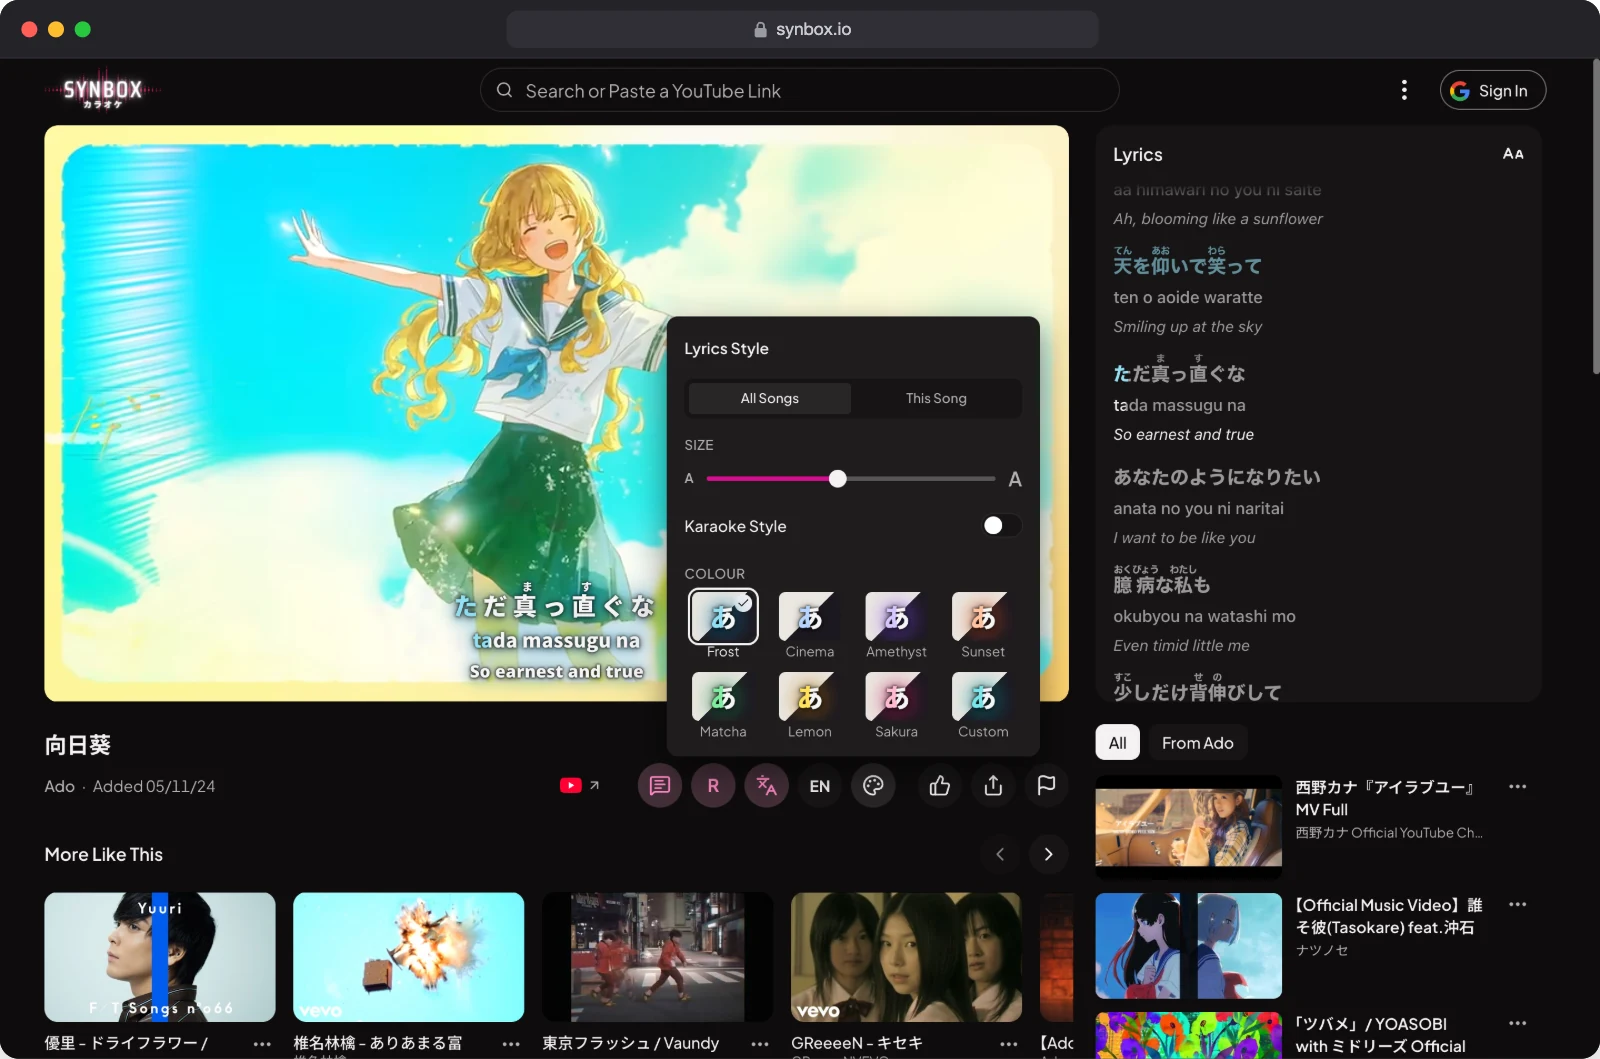
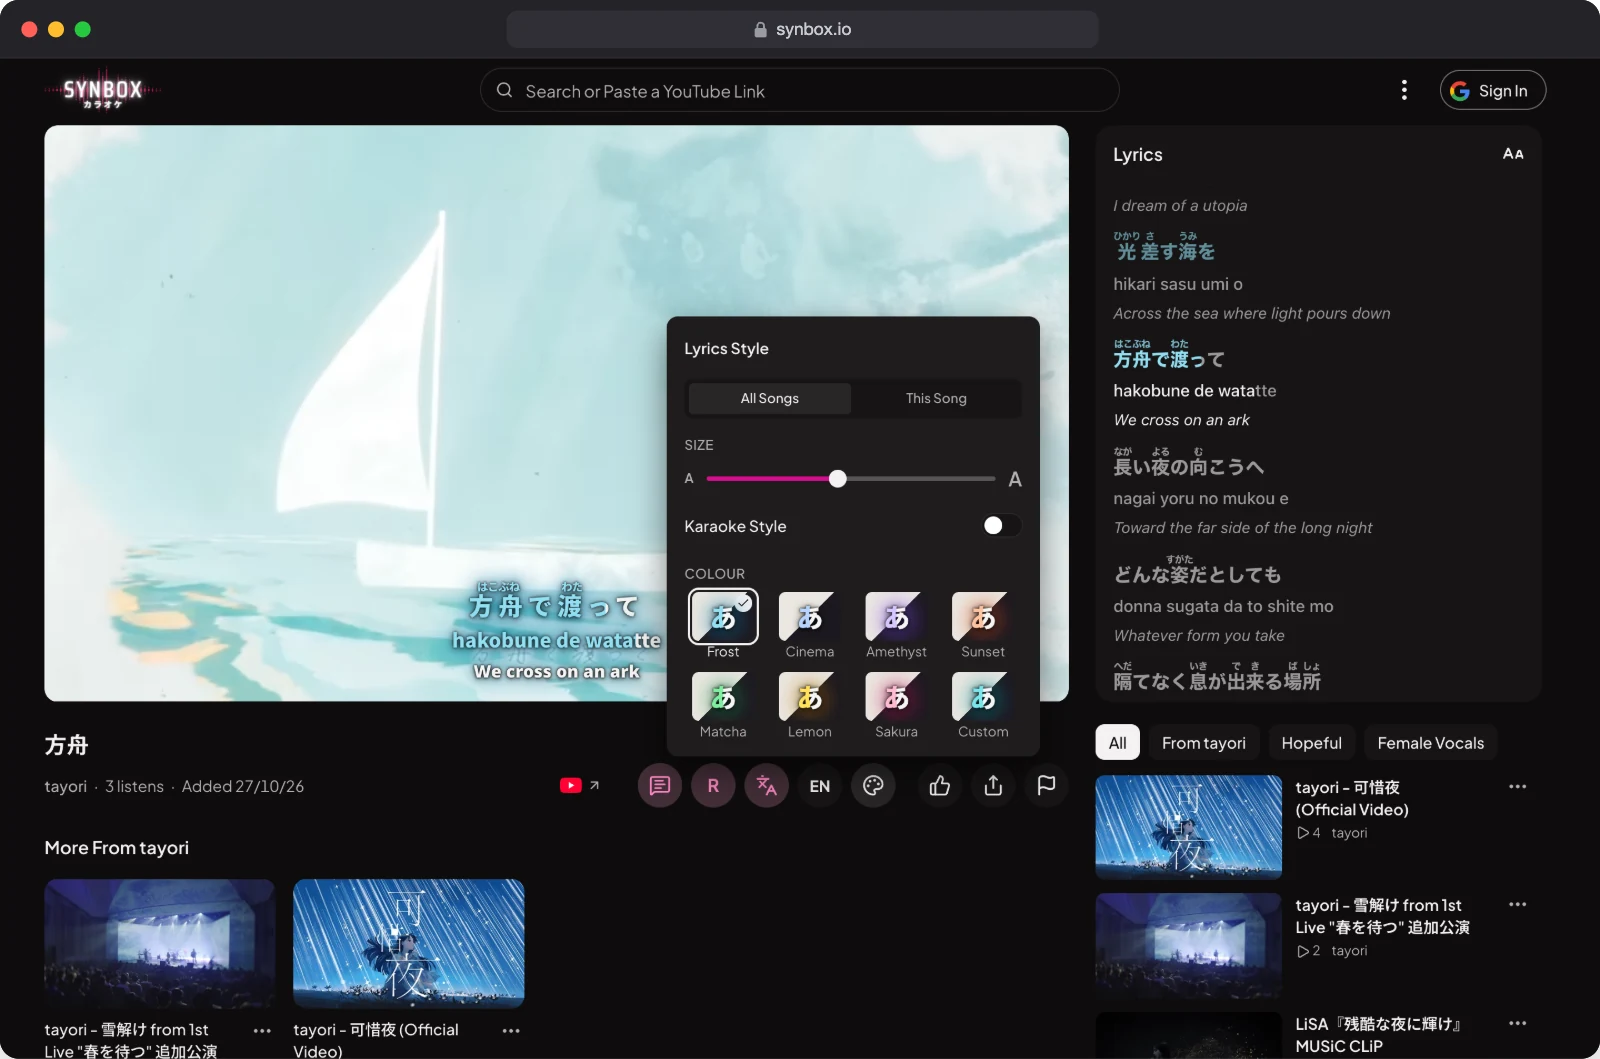
README images: the product over scenery, neutral songs in the lists
Every image now shows the song at a moment with no characters on screen.
capture.ts --neighbours limits the page's song lists to chosen songs.

diff --git a/harness/readme/capture.ts b/harness/readme/capture.ts
@@ -24,6 +24,9 @@
 //                                                                           website and the upright installed app
 //   --karaoke-style   lyrics in Karaoke Style (two rows) on every screen, as the listener's own default would set
 //   --lyrics-size <n> Karaoke Style's size (lyricsFontSizeTwoLines; 0.6 to 1.05 on a phone on its side)
+//   --neighbours <ids> the only songs (video ids, comma-separated) the page's song lists show: Up Next, More Like
+//                     This and the rows under the song, from the deployed lookup service's own answers. A showcase
+//                     picks neutral neighbours, as a demo account would
 //   --site <origin>   the app to shoot (default https://synbox.io). A local `wt serve` shows staging's code; its
 //                     karaoke, recommendations and YouTube reads are answered from the deployed services, which the
 //                     dev server's stand-ins can't reach without the backend's keys
@@ -80,6 +83,7 @@ const { positionals, values } = parseArgs({
     // Sideways: switch the video's fit (Zoom to Fill / Fit), for a video whose own captions the default crop cuts
     'karaoke-style': { default: false, type: 'boolean' },
     'lyrics-size': { type: 'string' },
+    neighbours: { type: 'string' },
     'other-fit': { default: false, type: 'boolean' },
     site: { default: 'https://synbox.io', type: 'string' },
     theater: { default: false, type: 'boolean' },
@@ -171,6 +175,50 @@ const fromDeployed = async (context: BrowserContext) => {
   )
 }
 
+// Every list of songs in a lookup answer (arrays of objects with a video_id), down to the kept songs
+const keepSongs = (value: unknown, kept: Set<string>): unknown => {
+  if (Array.isArray(value)) {
+    return value
+      .filter(
+        (item) =>
+          !isRecord(item) ||
+          typeof item.video_id !== 'string' ||
+          kept.has(item.video_id)
+      )
+      .map((item) => keepSongs(item, kept))
+  }
+  return isRecord(value)
+    ? Object.fromEntries(
+        Object.entries(value).map(([key, item]) => [key, keepSongs(item, kept)])
+      )
+    : value
+}
+
+// The page's library reads from the deployed lookup service, their song lists down to the kept songs
+const onlyNeighbours = async (context: BrowserContext, kept: Set<string>) => {
+  const { lookup } = backendOrigins(repoAt(process.cwd()).top)
+  await context.route(
+    // The lookup service's own reads, and the site's cached copy of its song list (/api/library/songs)
+    (url) =>
+      url.pathname.startsWith('/api/library/') ||
+      (url.origin !== new URL(site).origin && url.pathname.includes('/library/')),
+    async (route) => {
+      const url = new URL(route.request().url())
+      const pathname = url.pathname.replace(/^\/api\/library\//u, '/library/')
+      try {
+        const answer = await route.fetch({
+          url: `${lookup}${pathname}${url.search}`,
+        })
+        await route.fulfill({ json: keepSongs(await answer.json(), kept) })
+      } catch {
+        await route.abort().catch(() => {
+          // The page is gone
+        })
+      }
+    }
+  )
+}
+
 // A page of the site in one view: the deployed reads, the pill hidden, the embed's song time kept on window
 const visit = async (view: View) => {
   // The library and recommendations as listeners see them, not the bench's recorded answers
@@ -180,6 +228,12 @@ const visit = async (view: View) => {
   })
   if (!site.startsWith('https://synbox.io')) {
     await fromDeployed(opened.context)
+  }
+  if (values.neighbours !== undefined) {
+    await onlyNeighbours(
+      opened.context,
+      new Set([subject, ...values.neighbours.split(',')])
+    )
   }
   if (values['karaoke-style']) {
     // My Default's picks, stored before the app reads them (src/context/atoms.tsx › lyricsTwoLines,

diff --git a/harness/README.md b/harness/README.md
@@ -241,7 +241,7 @@ bun harness/readme/capture.ts <dir>/hero hero <videoId> <start> <end> --site <or
 bun harness/readme/capture.ts <dir>/raw player <videoId> <sec> --site <origin>             # the same as stills, and Lyrics Style
 bun harness/readme/capture.ts <dir>/raw search "<query>" --site <origin>
 bun harness/readme/capture.ts <dir>/raw generate <videoId> --site <origin>  # a song not in the library
-bun harness/readme/capture.ts <dir>/karaoke karaoke <videoId> <start> <end> --site <origin> [--theater]
+bun harness/readme/capture.ts <dir>/karaoke karaoke <videoId> <start> <end> --site <origin> --karaoke-style [--theater]
 bun harness/readme/scenes.ts <dir> [--raw <dir>/raw] [--hero <dir>/hero --hero-from <s> --hero-to <s>] \
   [--karaoke <dir>/karaoke --karaoke-from <s> --karaoke-to <s>] [--keep]
 # The same devices as separate pieces, for a page that lays them out itself
@@ -256,6 +256,7 @@ bun harness/readme/colors.ts <out.webp>                        # one row, one ca
 - **`--other-fit`** switches the video's fit, for a music video whose own captions the default crop cuts in half. **`--theater`** shoots the karaoke clip in Theater, whose lyrics default to Karaoke Style's two rows.
 - **Lyrics stay at the default size and style**, as a first-time listener sees them, unless a shot asks otherwise: `--karaoke-style` stores Karaoke Style as the listener's default before the app loads (two rows on every screen), and `--lyrics-size <n>` its size (0.6 to 1.05 on a phone on its side). The portfolio's sideways phone uses both, so its lyric reads at a small size: `capture.ts <dir>/raw sideways dy90tA3TT1c 144.2 --karaoke-style --lyrics-size 1.05`.
 - **Pick moments by eye and by line:** pretty art, and a line that reads well in English. Lyrics stay out of the repo; the images show a line or two, as the app does.
+- **A showcase sells the product, not a fandom:** scenery with no characters on screen (FO3kzc0dNXA lines 7, 20–21, 31 and 37 are the current set), and the song lists beside the video limited to neutral songs with `--neighbours <ids>` (live shows, scenery, live-action videos; the shots in this README and the portfolio use `L0ULpfyZxfo,Fd25HP4PL-A,ysdtX8kRTuQ,GuIkxXiVHps,4D3Xn0MmQmg,rZxR9bpsYLU,fmDB-HyPNYc,gTlpo5HIIZE,O3HwZncopUo,K1Tz2yNmamI`). Theater's stage is wider than a 16:9 video, which leaves black bands at its sides: shoot the karaoke clip in the watch page with `--karaoke-style`.
 - **Judge a scene as a whole, over the whole clip:** the devices' screens share one palette (Made for Phones: aqua, dark blue-grey and blue, hues 180° to 213°). Look at composed frames across the loop (`--keep`), not each shot alone; a clip that cuts to a clashing colour (red, saturated orange) is the wrong moment.
 - **A phone on its side needs a full-frame video:** a music video with black bars built in (wider than 16:9: 「怪物」, 「海のまにまに」) keeps a strip at the top and bottom under Zoom to Fill, and its straight edge cuts across the screen's round corners. Check the shot's top and bottom rows, and look for lyrics the video draws itself (「藍悼花」, 「好きだから。」). `moments.ts --all` lists every song with clean lines.
 

diff --git a/README.md b/README.md
@@ -30,7 +30,7 @@ This repository is the web app and its auth Worker. The service that makes the l
 ## Karaoke
 
 <p align="center">
-  <img src="docs/readme/showcase/karaoke.webp" alt="Karaoke Style in Theater Mode: two rows of lyrics, left then right, filling syllable by syllable as they are sung, with furigana, romaji and the English translation above" width="100%" />
+  <img src="docs/readme/showcase/karaoke.webp" alt="Karaoke Style over the music video: two rows of lyrics, left then right, filling syllable by syllable as they are sung, with furigana, romaji and the English translation above" width="100%" />
 </p>
 
 - **Timed to every syllable**, like a karaoke machine.
@@ -49,7 +49,7 @@ Paste a link to a song that isn't in the library. Synbox transcribes it and alig
 ## Made for Phones
 
 <p align="center">
-  <img src="docs/readme/showcase/phones.webp" alt="Synbox installed on an iPhone: the player on its side, the home page with the song in the mini player, and another song on its side in Karaoke Style, two rows filling as they are sung" width="100%" />
+  <img src="docs/readme/showcase/phones.webp" alt="Synbox installed on an iPhone: the player on its side, the home page with the song in the mini player, and the player on its side again in Karaoke Style, two rows filling as they are sung" width="100%" />
 </p>
 
 - **Installs as an app** on iPhone and Android, with a tab bar.
